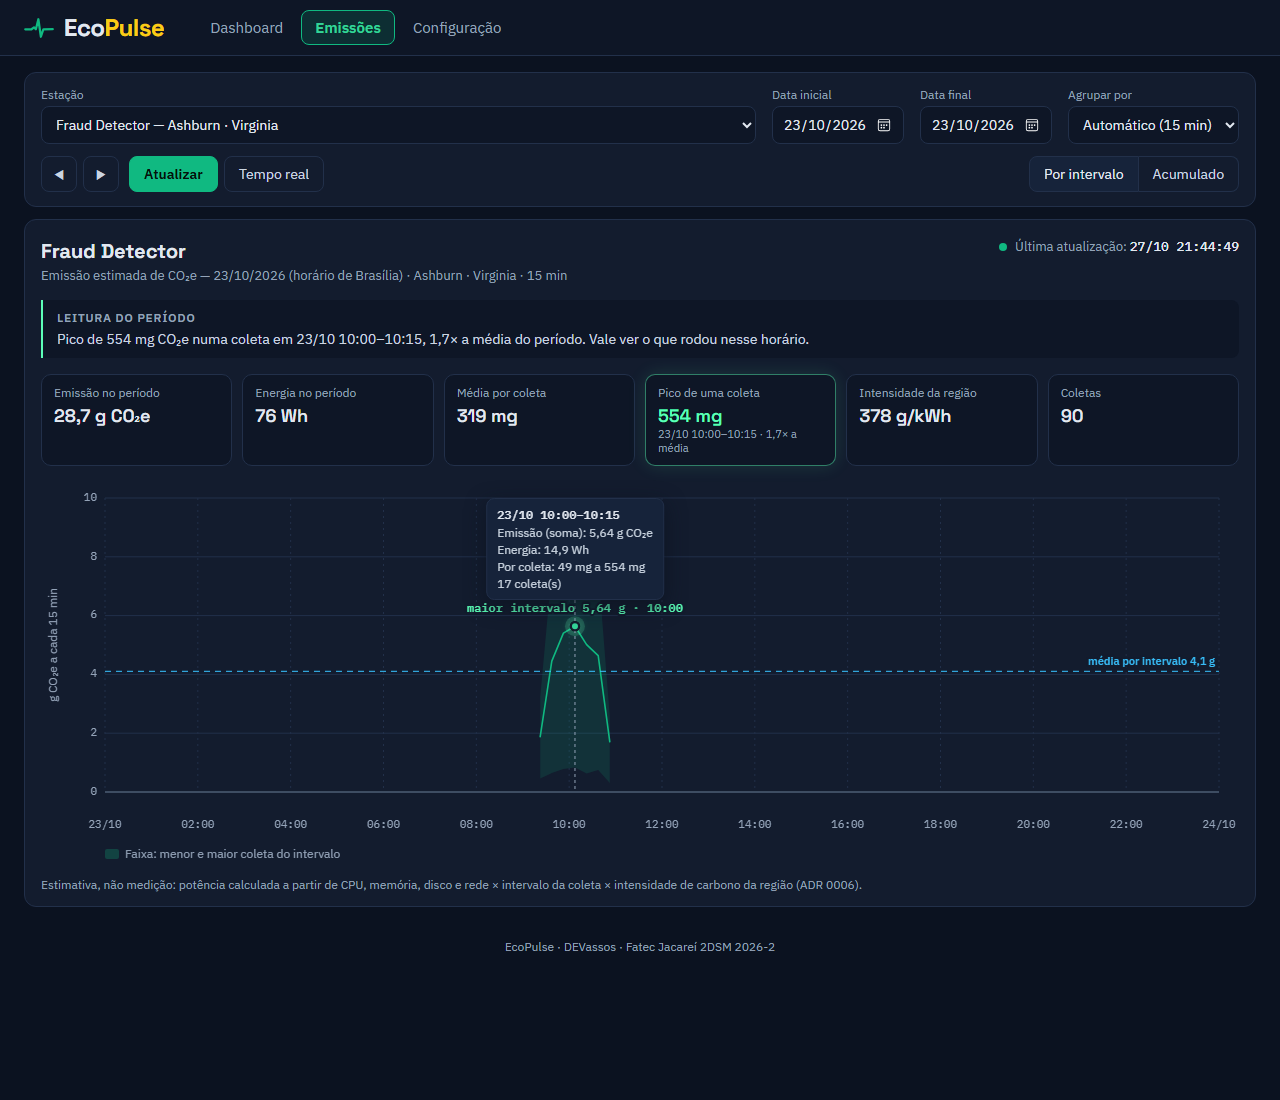
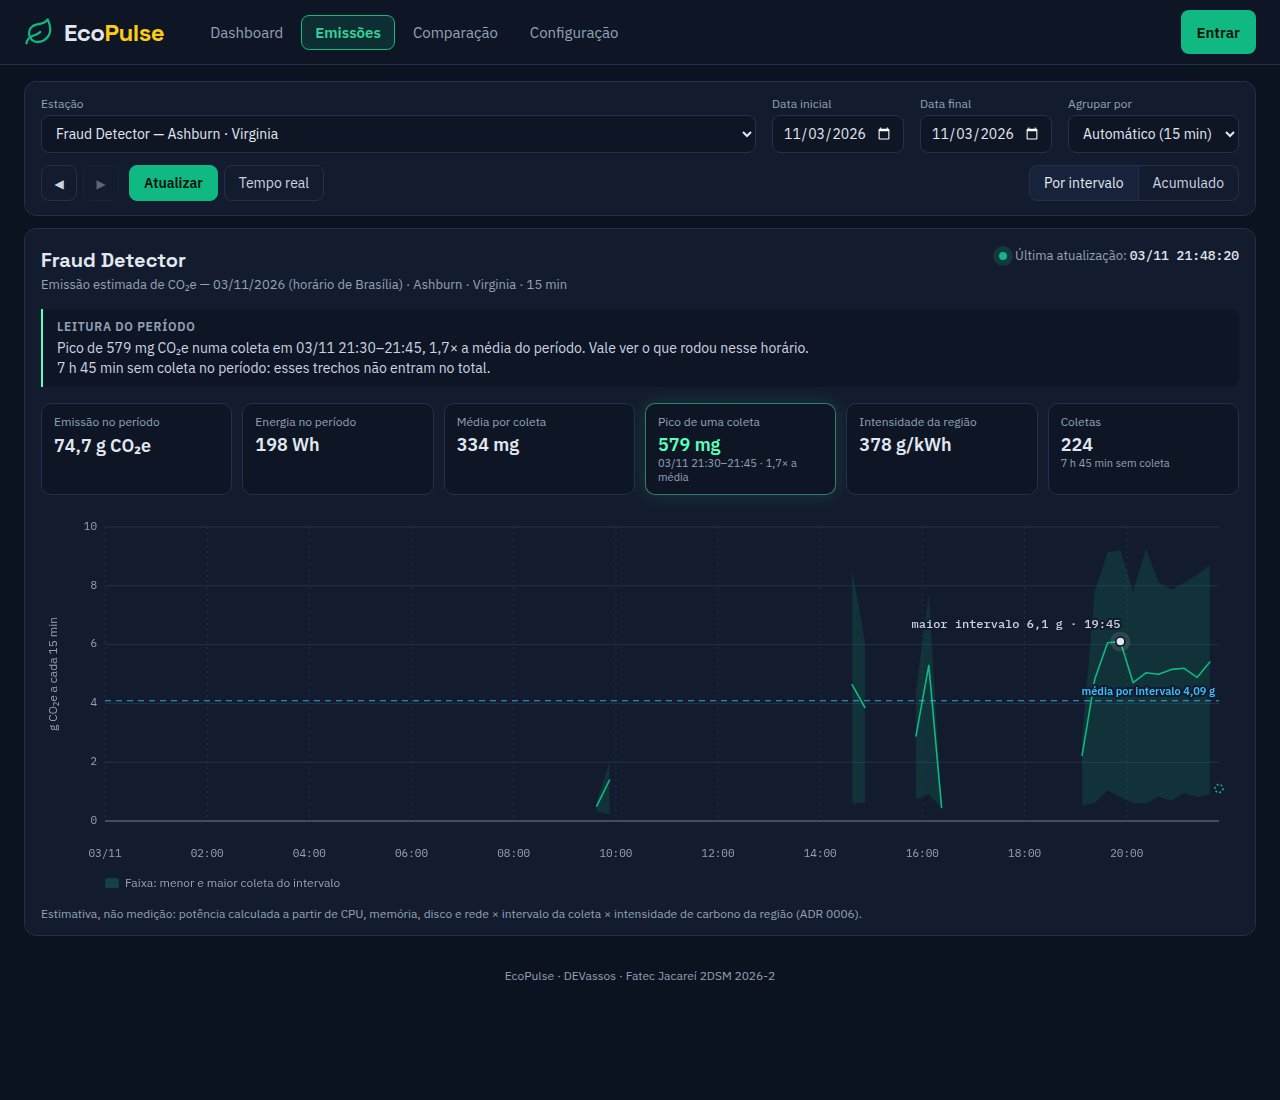
docs(docs): registra polimento visual e refaz prints (#258) [RNF01]
identidade-visual.md: neon em Emissões, --focus-ring, color-scheme,
ícones dos cards, números isolados, mono e cabeçalho no celular.
frontend/README.md: maior ponto do gráfico em cor neutra e a classe
.field-focus. Prints de indicadores agregados e de Emissões refeitos
com o backend real em 03/11/2026, com a legenda atualizada.

diff --git a/docs/identidade-visual.md b/docs/identidade-visual.md
@@ -36,7 +36,7 @@ Os valores ficam em `frontend/src/styles/global.css`, fonte única das cores no 
 | **Alerta** | Estados de aviso (ex: serviço sem métricas) | Laranja | `#F97316` | `--warning` | 6,7:1 |
 | **Erro** | Estados críticos (ex: serviço indisponível/caído) | Vermelho | `#EF4444` | `--error` | 5,0:1 |
 | **Texto** | Cor padrão para textos e títulos | Cinza-claro | `#E2E8F0` | `--text` | 15,2:1 |
-| **Neon** | Só no que pede atenção: maior impacto, pico de gráfico, "ao vivo" e pulso do logo. Nunca em texto corrido, fundo de card ou linha de gráfico | Verde-neon | `#5CFFB8` | `--neon` | 14,7:1 |
+| **Neon** | Só no que pede atenção: maior impacto, pico, "ao vivo" e pulso do logo, e um destaque por vez na tela. Na página Emissões ele fica com o tile "Pico de uma coleta", o pico que a Leitura do período cita; o maior ponto do gráfico fica em `--text`, sem brilho (#258). Nunca em texto corrido, fundo de card ou linha de gráfico | Verde-neon | `#5CFFB8` | `--neon` | 14,7:1 |
 
 > **Nota de Usabilidade:** O amarelo (`#FACC15`) é utilizado restritivamente para elementos da marca. Alertas de sistema utilizam obrigatoriamente o laranja (`#F97316`) para garantir que problemas operacionais sejam imediatamente identificados sem ambiguidade.
 
@@ -57,6 +57,9 @@ Variações usadas pelos componentes para camadas, bordas, hierarquia de texto e
 | `--sky-hover` | `#7DD3FC` | Hover de links | 11,2:1 |
 | `--danger` | `#F87171` | Texto pequeno de erro; o `#EF4444` fica para ícones, bordas e fundos, porque sobre a superfície chega só a 4,5:1 | 6,8:1 |
 | `--neon-glow` | `rgb(92 255 184 / 0.35)` | Brilho do neon (`box-shadow` / `drop-shadow`); nunca sozinho | — |
+| `--focus-ring` | `0 0 0 3px` de `--accent` a 22% | Anel de foco dos campos de texto (login e busca da tabela), junto da borda em `--accent`; classe `.field-focus` em `controls.css` | — |
+
+O `:root` declara `color-scheme: dark` (#258): caixas de seleção, selects, calendários e barras de rolagem do navegador seguem o tema escuro, sem precisar de regra por campo. A seleção de texto usa `--accent` a 35%, e o cursor de digitação, `--accent`.
 
 No Tailwind, os tokens viram classes: `bg-bg`, `bg-surface`, `bg-surface-2`, `bg-surface-3`, `border-border`, `text-text`, `text-muted`, `text-faint`, `text-primary` (`--accent`), `text-primary-hover` (`--accent-hover`), `text-secondary` (`--sky`), `text-brand` (`--yellow`), `text-warning`, `text-error` e `text-danger` (`--danger`), além das variantes `bg-*` e `border-*` de cada uma. Os demais tokens de apoio são usados pelo CSS dos componentes, com `var(--token)`.
 
@@ -67,6 +70,8 @@ No Tailwind, os tokens viram classes: `bg-bg`, `bg-surface`, `bg-surface-2`, `bg
 ### Painéis e Cards
 * Utilizam a cor de superfície (`#131C2E`) sobre o fundo azul-noite (`#0B1220`) para criar profundidade e hierarquia visual.
 * Bordas sutis e cantos arredondados para manter uma aparência limpa e profissional.
+* Os ícones dos cards são SVG de linha 24×24, com o mesmo traço (`metricIconProps`, em `MetricTile.tsx`), na cor do tom do card. Caractere ou emoji não serve de ícone (#258).
+* O número isolado de um card (estado, indicadores do período, resumo da página Emissões) usa `--sans` semibold, não a fonte de título.
 
 ### Botões
 * **Botão cheio** (ação principal da tela, ex.: "Entrar"): fundo `--accent`, texto `--on-accent`. O texto fica escuro porque o branco sobre o verde dá 2,5:1 e reprova no AA.
@@ -89,7 +94,7 @@ No Tailwind, os tokens viram classes: `bg-bg`, `bg-surface`, `bg-surface-2`, `bg
 | Token CSS | Família | Pesos | Uso |
 | :--- | :--- | :--- | :--- |
 | `--sans` | IBM Plex Sans | 400, 500, 600 | Texto corrido, tabelas, botões e menus; fonte padrão da página, em 15 px |
-| `--mono` | IBM Plex Mono | 400, 500 | Valores numéricos e códigos: CPU, energia, emissão e horário da última leitura (alinhados à direita) e o código da região na tabela de serviços |
+| `--mono` | IBM Plex Mono | 400, 500 | Valores numéricos e códigos: CPU, energia, emissão e horário da última leitura (alinhados à direita) e o código da região na tabela de serviços. Nome de lugar (cidade, país) fica em `--sans` |
 | `--display` | Space Grotesk | 500, 600, 700 | Logotipo e títulos de página e de seção |
 
 * Contraste rigoroso entre o texto cinza-claro (`#E2E8F0`) e o fundo azul-noite (`#0B1220`), de 15,2:1, e a superfície (`#131C2E`), de 13,8:1, para garantir conforto visual em monitoramento prolongado. Texto pequeno usa no mínimo `--muted` (`#94A3B8`).
@@ -100,6 +105,8 @@ No Tailwind, os tokens viram classes: `bg-bg`, `bg-surface`, `bg-surface-2`, `bg
   2. Mapa reduzido.
   3. Dashboard da região/serviço selecionado.
   4. Ranking de consumo ao final da página.
+* Cabeçalho abaixo de 961 px (#258): três linhas, sem esconder nada. A primeira tem a marca e **Entrar**/**Sair**, a segunda o menu (que rola na horizontal) e a terceira a "Última atualização" com o botão de atualizar. Na tela larga, tudo fica numa linha só.
+* Os cards de energia e emissões do período ficam em uma coluna no celular, para o valor e a unidade ("g CO₂e") caberem na mesma linha.
 
 ---
 

diff --git a/frontend/README.md b/frontend/README.md
@@ -96,7 +96,7 @@ Lidas do `.env` da **raiz** do repositório (modelo em `.env.example`; `envDir: 
 - **Tempo sem coleta** (no card **Coletas** e na Leitura do período) soma os trechos sem nenhuma coleta registrada, com falha ou não, entre a primeira e a última coleta do período. O tempo antes da primeira e depois da última não conta, porque pode ser só o sistema desligado ou o período ainda em curso. Os trechos têm 15 min em períodos de até 1 dia e 1 hora nos maiores (ou no agrupamento por 1 hora), alinhados como o `date_bin` da #189; assim, **Cada coleta** e **15 min** dão o mesmo número. É ausência de registro, não indisponibilidade.
 - O selo `LastUpdated` do cartão mostra "Última atualização: dd/mm HH:MM:SS" (com o intervalo, no **Tempo real**). Se uma busca falha, o resumo e a Leitura do período continuam com o último dado, com os números apagados (`--muted`), junto com o erro, **Tentar novamente** e o selo laranja "Desatualizado desde …", como no dashboard. Se a primeira busca do filtro falha, o selo fica em "Aguardando a primeira atualização" e só aparece o erro. Trocar a estação, o período ou o agrupamento limpa o resumo, o horário e o erro anteriores.
 - A resposta é conferida em tempo de execução: envelope fora do formato vira erro amigável; item fora do formato fica de fora e a tela avisa quantos.
-- Gráfico em SVG próprio (`EmissionsChart`, sem biblioteca): a linha é a emissão de cada coleta ou a **soma** de cada intervalo, desenhada no meio dele. No agrupado, uma faixa clara mostra onde a soma estaria se todas as coletas fossem a menor ou a maior do intervalo, para o pico de uma coleta não sumir na soma. Também tem linha de média (ciano), maior ponto em neon e uma faixa vermelha ou cinza abaixo do eixo nos pontos com falha ou sem cálculo. A linha é interrompida onde não há cálculo ou onde a coleta parou.
+- Gráfico em SVG próprio (`EmissionsChart`, sem biblioteca): a linha é a emissão de cada coleta ou a **soma** de cada intervalo, desenhada no meio dele. No agrupado, uma faixa clara mostra onde a soma estaria se todas as coletas fossem a menor ou a maior do intervalo, para o pico de uma coleta não sumir na soma. Também tem linha de média (ciano), maior ponto em cor neutra, sem brilho (o neon fica com o tile **Pico de uma coleta**, #258), e uma faixa vermelha ou cinza abaixo do eixo nos pontos com falha ou sem cálculo. A linha é interrompida onde não há cálculo ou onde a coleta parou.
 - **Por coleta / Por intervalo** × **Acumulado**: o acumulado termina no total de "Emissão no período". O intervalo ainda em andamento (hoje) aparece como um ponto vazado fora da linha, porque a soma dele é parcial.
 - Tooltip: horário (ou intervalo), emissão, acumulado, energia, menor e maior coleta do intervalo e quantas coletas entraram (com falha e sem cálculo).
 - A janela de detalhes do serviço tem o botão **Ver emissões deste serviço**, que abre `/emissoes?servico=<id>`.
@@ -167,7 +167,7 @@ O backend real já expõe `GET /api/services` e `GET /api/collections` (#111, #1
   </section>
   ```
 
-- **Controles comuns** ficam em `src/styles/controls.css`: `.btn-outline` é o botão vazado das ações secundárias (ex.: **Tentar novamente**, **Atualizar agora**). O verde fica só em ações e destaques, e o `--neon` só no que pede atenção (#180; regras no guia).
+- **Controles comuns** ficam em `src/styles/controls.css`: `.btn-outline` é o botão vazado das ações secundárias (ex.: **Tentar novamente**, **Atualizar agora**), e `.field-focus` dá o anel de foco dos campos de texto (`--focus-ring`, #258). O verde fica só em ações e destaques, e o `--neon` só no que pede atenção (#180; regras no guia).
 
 - **Preflight desligado:** `global.css` importa só `tailwindcss/theme.css` e `tailwindcss/utilities.css` (e não o `preflight.css`), para o reset do Tailwind não alterar os componentes que têm CSS próprio. O reset mínimo do projeto fica na camada `base`.
 - **Camadas:** a prioridade é `theme < base < components < utilities`. O CSS de componentes e de layout fica dentro de `@layer components { … }`, então uma classe utilitária (`p-4`, `text-muted`) sempre vence o CSS do componente. CSS fora de camada venceria as utilities; por isso todo CSS novo entra numa camada.

diff --git a/README.md b/README.md
@@ -54,7 +54,7 @@ O desenvolvimento acontece na branch `develop`; cada funcionalidade entra nesta 
 
   ![Indicadores agregados com comparação às 24 h anteriores](docs/img/sprint-2-indicadores-agregados.png)
 
-  _Dashboard com o backend real (`docker compose`) em 28/10/2026, 19h32: 0,2620 kWh e 64,61 g CO₂e nas últimas 24 h. O compose ficou desligado nas 24 h anteriores, então os cards dizem "Sem cálculo no período anterior" em vez de uma variação._
+  _Dashboard com o backend real (`docker compose`) em 03/11/2026, 21h48: 1,2258 kWh e 301,46 g CO₂e nas últimas 24 h. Não há cálculo nas 24 h anteriores, então os cards dizem "Sem cálculo no período anterior" em vez de uma variação. Ícones de linha nos dois cards (#258)._
 
 - **RNF02 — Indicador de última atualização (#89):** selo no cabeçalho com o horário da última busca bem-sucedida e um ponto verde pulsando enquanto os dados estão em dia; se uma busca falha, ele fica laranja e passa a dizer "Desatualizado desde …", sem apagar os dados da tela.
 
